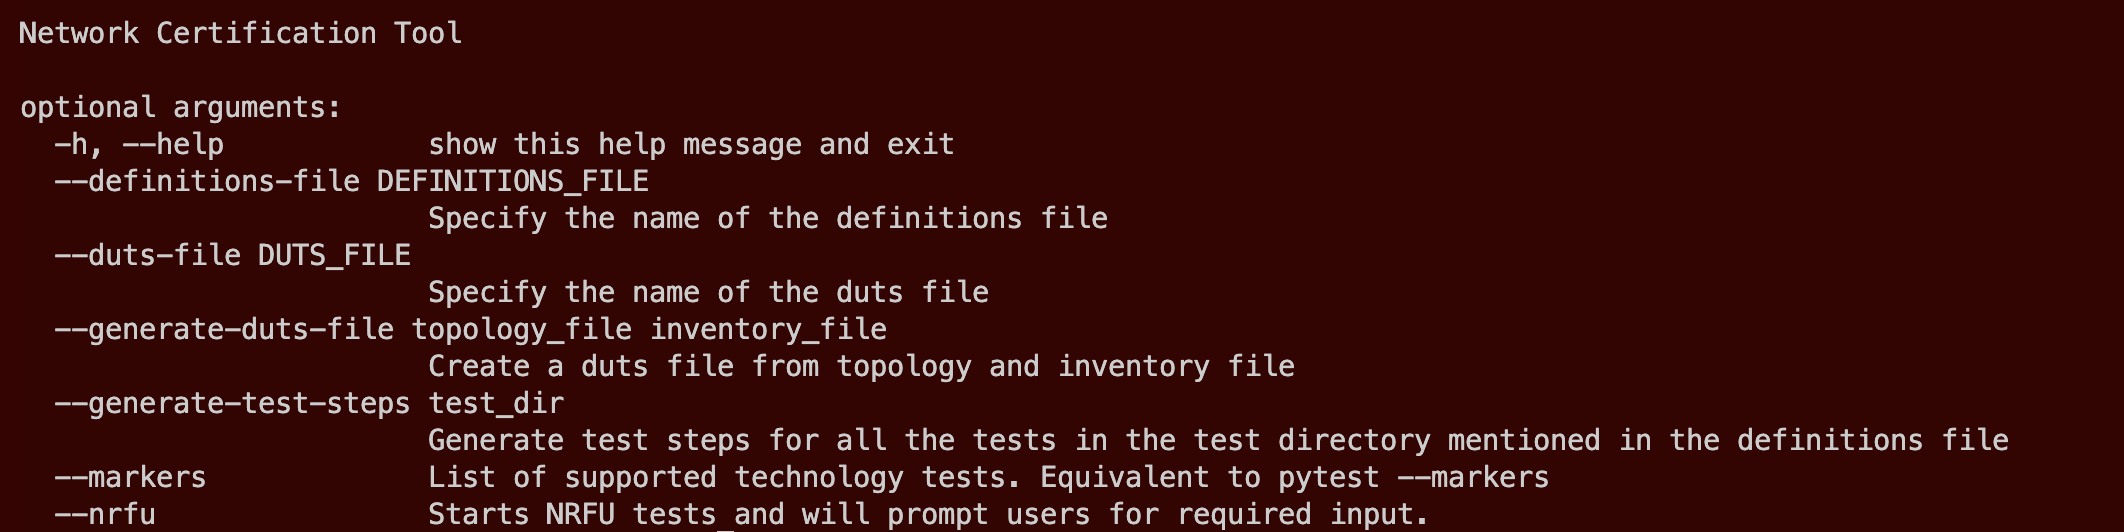
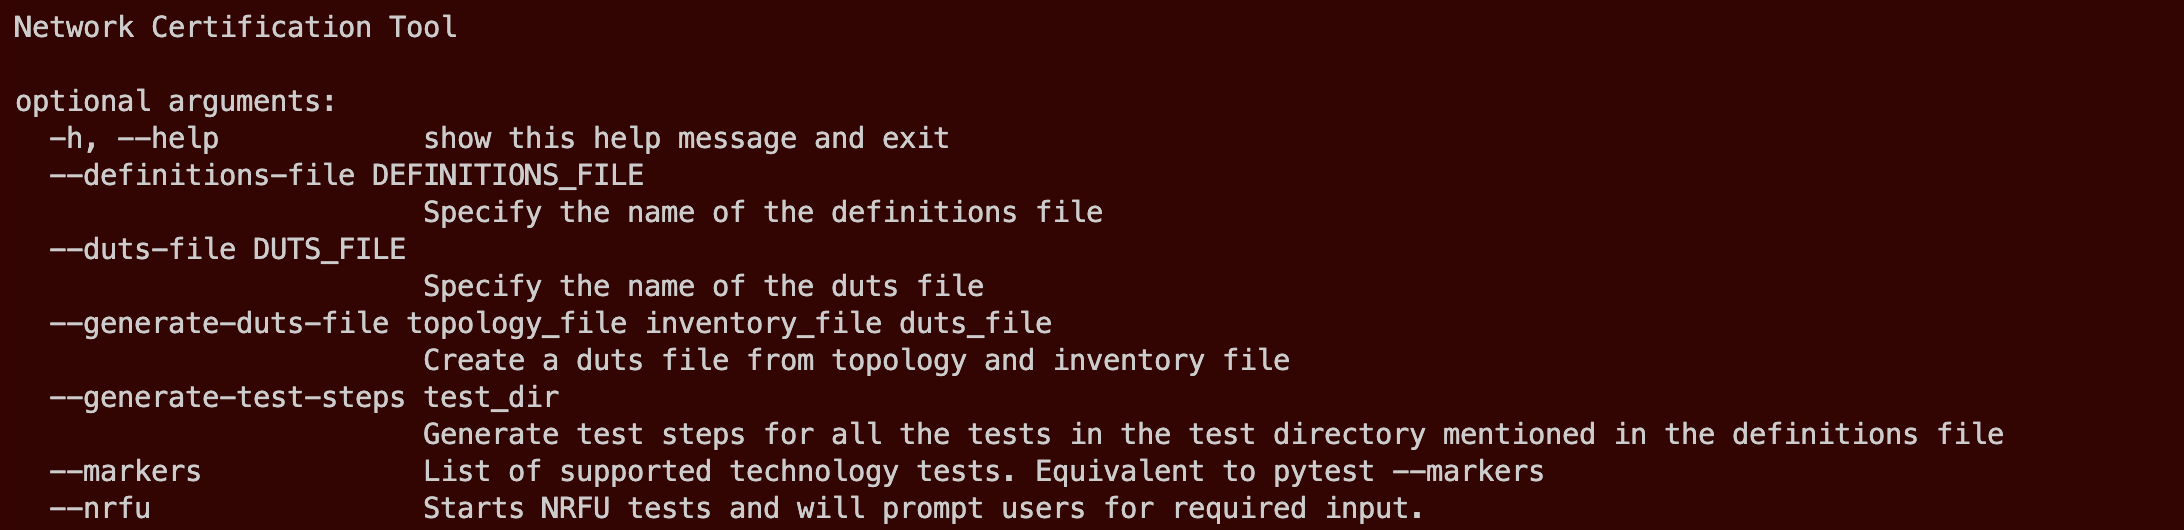
refactored generate-duts-file flag info

diff --git a/docs/api_cli/cli.md b/docs/api_cli/cli.md
@@ -13,11 +13,12 @@ this section
 
 ## Using the -- generate-duts-file flag
 
-This flag can be used to generate the duts file for a given inventory
-and topology file of a virtual lab.
+This flag can be used to generate the duts file with a given name
+(via the third argument) for a given inventory and topology file
+of a virtual lab.
 
 ``` text
-vane –-generate-duts-file topology.yaml inventory.yaml 
+vane –-generate-duts-file topology.yaml inventory.yaml duts_file
 ```
 
 **topology.yaml** : this file represents the topology of the virtual lab
@@ -102,7 +103,7 @@ all:
     to generate a duts file which Vane will run against.
 
     ``` text
-    vane –-generate-duts-file topology.yaml inventory.yaml 
+    vane –-generate-duts-file topology.yaml inventory.yaml duts_file
     ```
 
 ## Using the -- generate-test-steps flag
